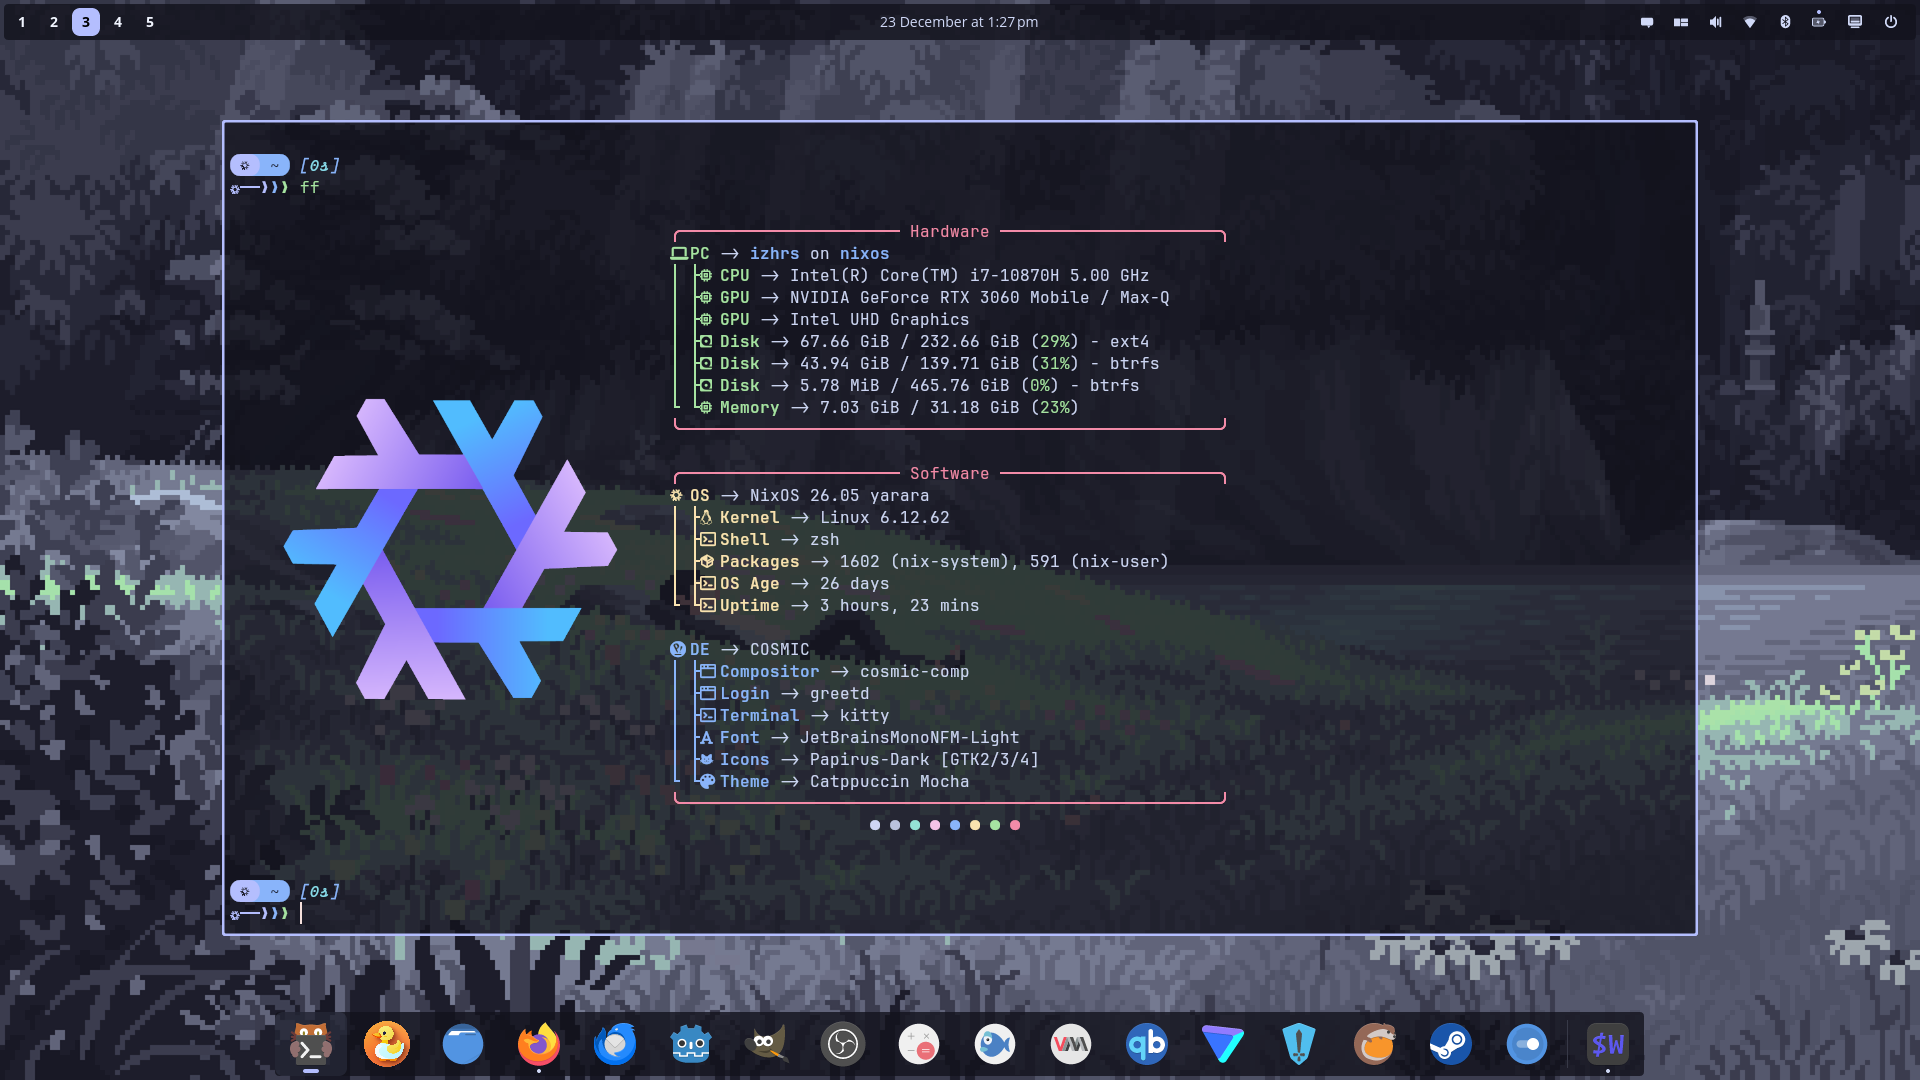
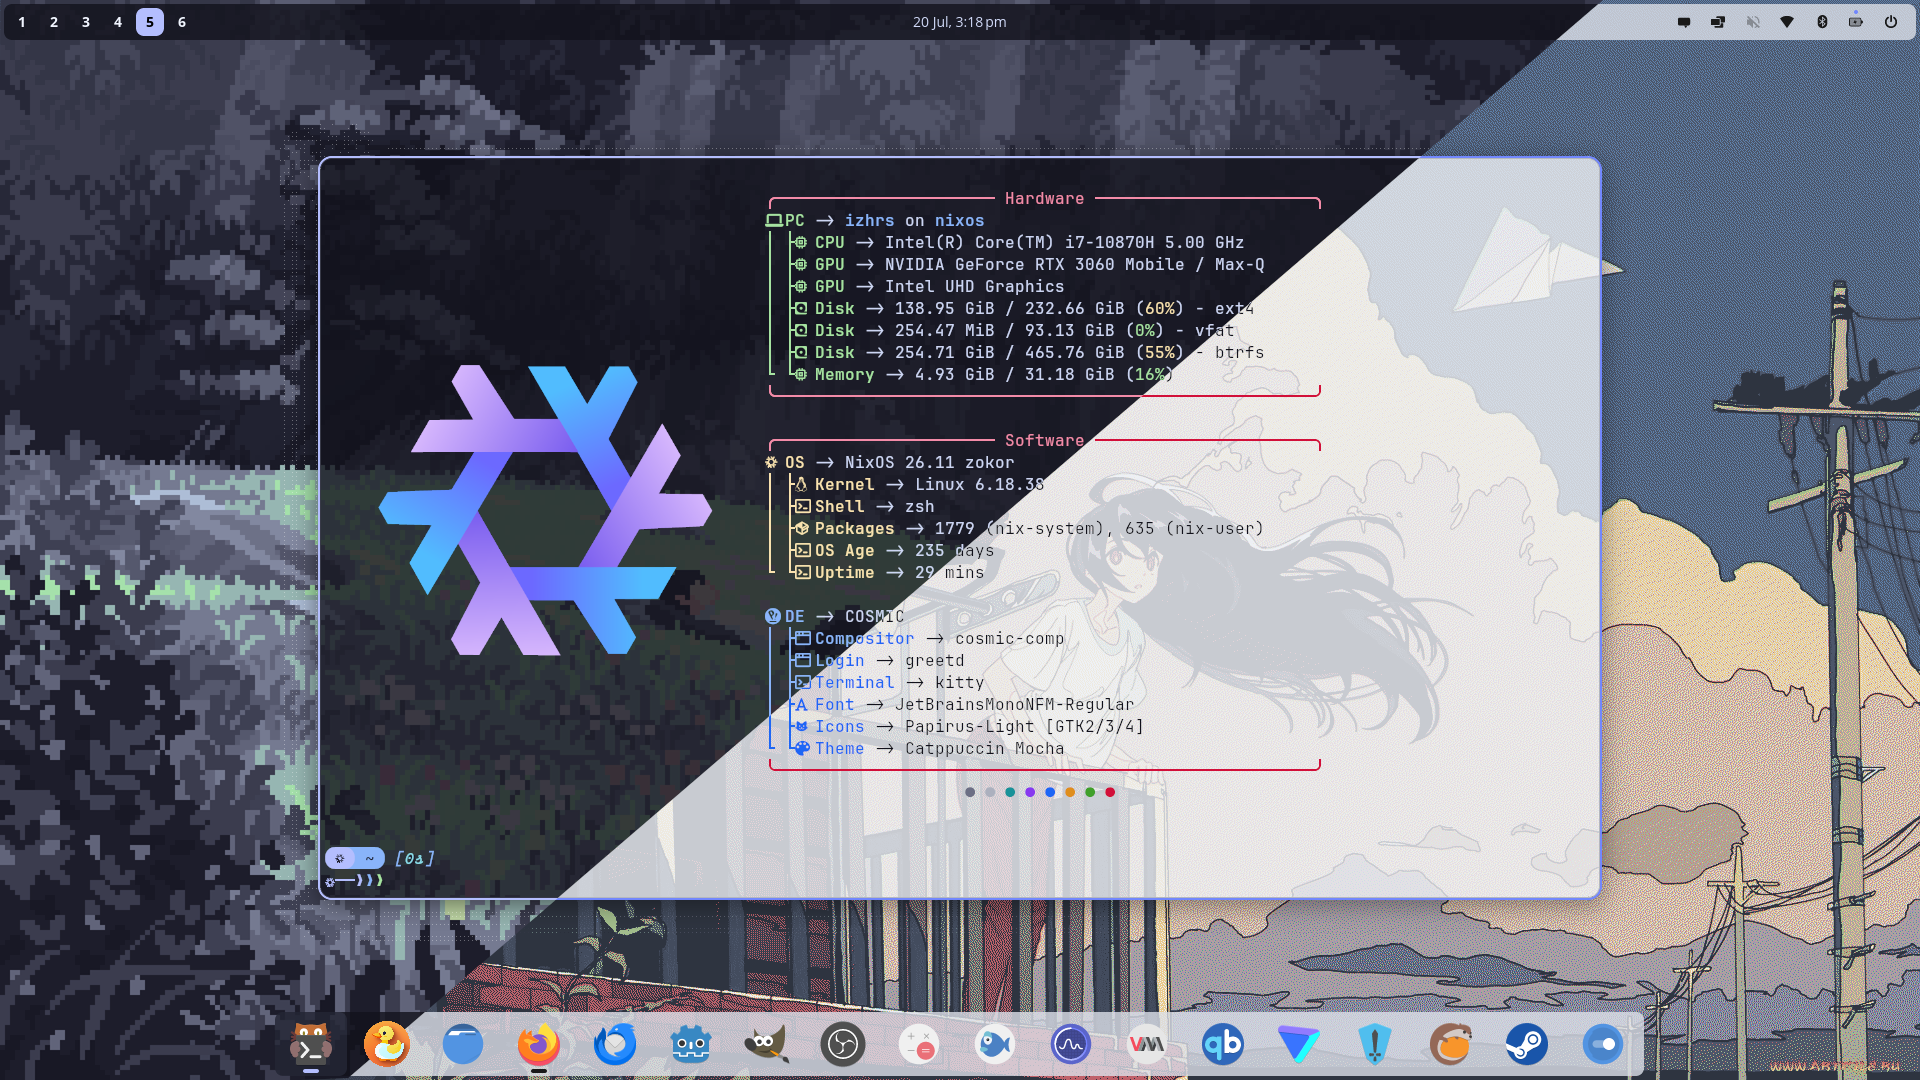
readme: update readme with theme info and add screenshots showcasing both light and dark mode

diff --git a/README.md b/README.md
@@ -24,16 +24,16 @@
 
 ## Screenshots
 
-### Cosmic DE
-
-![cosmic_de](./screenshots/cosmic.png)
-
 ### Fastfetch
 
 ![fastfetch](./screenshots/fastfetch.png)
 
 <details>
   <summary>More Screenshots</summary>
+
+### Light and Dark
+
+![float_win](./screenshots/float_win.png)
 
 ### Zellij
 
@@ -113,6 +113,18 @@
 ## Home Manager
 
 This configuration uses Home Manager as a Nix module (instead of running a standalone home-manager CLI setup). Home Manager declaratively manages the user environment: packages, dotfiles, and user services in a reproducible way.
+
+## Light Mode
+
+Light theming is implemented using [NixOS specialisations](https://nix-community.github.io/home-manager/options.xhtml#opt-specialisation), which allow per-program theme overrides to be declared alongside their default (dark) configuration and activated at runtime without a rebuild.
+
+Most programs are themed using [Catppuccin Latte](https://github.com/catppuccin/catppuccin), with a desktop shortcut and shell script available to switch between dark and light modes on the fly. The switch updates GTK theme, terminal colors, wallpaper, editor theme, and other program-specific configurations atomically via the specialisation activation script.
+
+This is still a work in progress. A few known rough edges:
+
+- **Delta** in lazygit do not theme correctly in light mode yet
+- **Zellij** does not autoreaload zjstatus plugin
+- Catppuccin Latte's default palette has poor contrast in several contexts, which I'm trying to fix by selectively substituting darker values from the Mocha palette where readability suffers
 
 ## Helix as IDE
 
